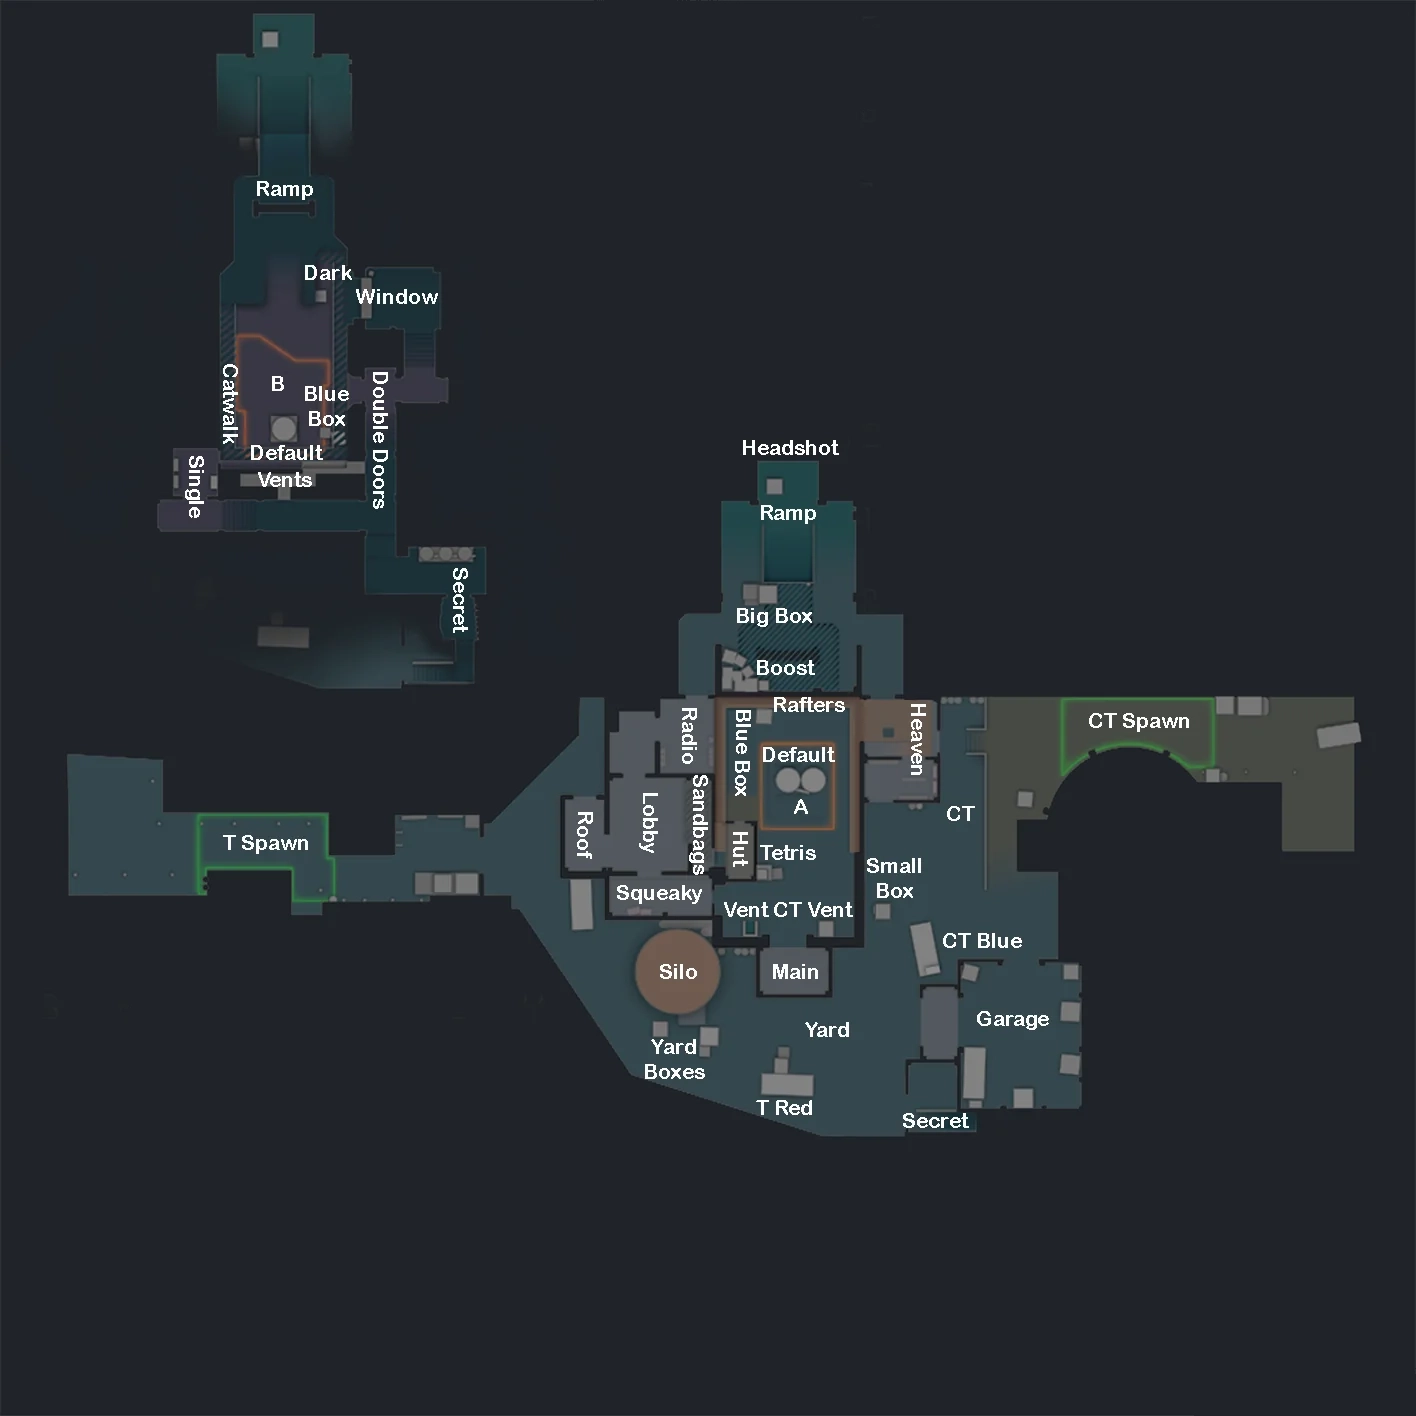
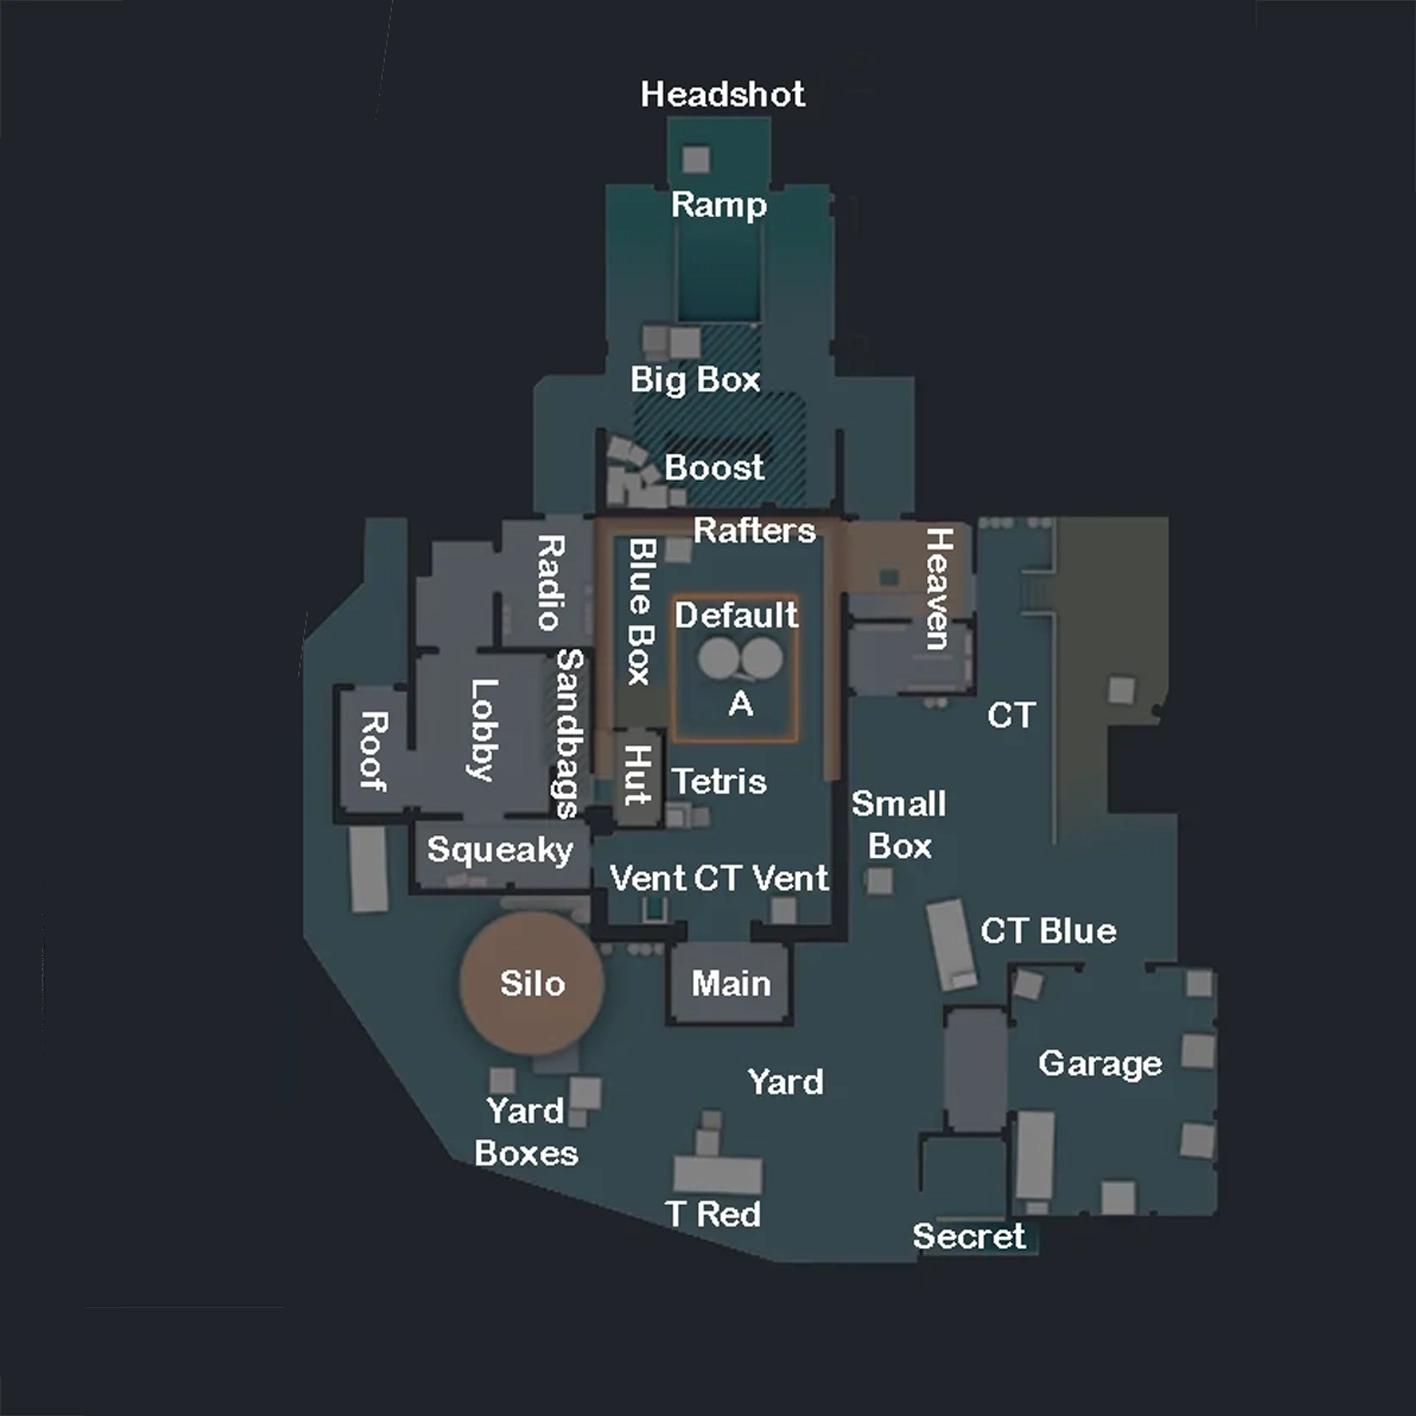
Nuke

diff --git a/src/views/Nuke.vue b/src/views/Nuke.vue
@@ -1,89 +1,158 @@
 <template>
-    <div class="absolute inset-0 bg-gradient-to-br from-neutral-900 from-5% to-neutral-950">
-      <div class="h-full w-full flex flex-col lg:flex-row items-center px-8">
-  
-        <div class="flex items-center justify-start h-full">
-          <ul class="min-w-40 font-mono font-bold rounded-xl bg-neutral-900 text-neutral-200 space-y-4 p-4">
-  
-            <router-link
-              to="/Mirage"
-              class="min-h-10 flex items-center justify-left gap-2 rounded-lg transition-colors duration-300 ease-out hover:bg-neutral-800"
-            >
-              <div class="pl-2">
-                <img src="@/assets/icons/Mirage.webp" alt="icon" class="w-6 h-6 inline-block mr-2" />
-              </div>
-              Mirage
-            </router-link>
-  
-            <router-link
-              to="/Dust2"
-              class="min-h-10 flex items-center justify-left gap-2 rounded-lg transition-colors duration-300 ease-out hover:bg-neutral-800"
-            >
-              <div class="pl-2">
-                <img src="@/assets/icons/Dust2.webp" alt="icon" class="w-6 h-6 inline-block mr-2" />
-              </div>
-              Dust 2
-            </router-link>
-  
-            <router-link
-              to="/Nuke"
-              class="min-h-10 flex items-center justify-left gap-2 rounded-lg transition-colors duration-300 ease-out bg-neutral-600"
-            >
-              <div class="pl-2">
-                <img src="@/assets/icons/Nuke.webp" alt="icon" class="w-6 h-6 inline-block mr-2" />
-              </div>
-              Nuke
-            </router-link>
-            
-            <router-link
-              to="/Inferno"
-              class="min-h-10 flex items-center justify-left gap-2 rounded-lg transition-colors duration-300 ease-out hover:bg-neutral-800"
-            >
-              <div class="pl-2">
-                <img src="@/assets/icons/Inferno.webp" alt="icon" class="w-6 h-6 inline-block mr-2" />
-              </div>
-              Inferno
-            </router-link>
-          </ul>
-        </div>
-  
-        <div class="flex justify-center items-center px-4 lg:px-20">
+  <div class="absolute inset-0 bg-gradient-to-br from-neutral-900 from-5% to-neutral-950">
+    <div class="h-full w-full flex flex-col lg:flex-row items-center gap-8">
+
+      <div class="hidden xl:flex items-center justify-start h-full">
+        <ul class="min-w-40 font-mono font-bold rounded-r-xl bg-neutral-900 text-neutral-200 space-y-4 p-4">
+          <router-link
+            to="/Mirage"
+            class="min-h-10 flex items-center justify-left gap-2 rounded-lg transition-colors duration-300 ease-out hover:bg-neutral-800"
+          >
+            <div class="pl-2">
+              <img src="@/assets/icons/Mirage.webp" alt="icon" class="w-6 h-6 inline-block mr-2" />
+            </div>
+            Mirage
+          </router-link>
+          <router-link
+            to="/Dust2"
+            class="min-h-10 flex items-center justify-left gap-2 rounded-lg transition-colors duration-300 ease-out hover:bg-neutral-800"
+          >
+            <div class="pl-2">
+              <img src="@/assets/icons/Dust2.webp" alt="icon" class="w-6 h-6 inline-block mr-2" />
+            </div>
+            Dust 2
+          </router-link>
+          <router-link
+            to="/Nuke"
+            class="min-h-10 flex items-center justify-left gap-2 rounded-lg transition-colors duration-300 ease-out bg-neutral-600"
+          >
+            <div class="pl-2">
+              <img src="@/assets/icons/Nuke.webp" alt="icon" class="w-6 h-6 inline-block mr-2" />
+            </div>
+            Nuke
+          </router-link>
+          <router-link
+            to="/Inferno"
+            class="min-h-10 flex items-center justify-left gap-2 rounded-lg transition-colors duration-300 ease-out hover:bg-neutral-800"
+          >
+            <div class="pl-2">
+              <img src="@/assets/icons/Inferno.webp" alt="icon" class="w-6 h-6 inline-block mr-2" />
+            </div>
+            Inferno
+          </router-link>
+        </ul>
+      </div>
+
+      <div class="flex-col lg:flex-row flex gap-15 md:gap-0 justify-center md:justify-left items-center">
+        <div class="relative max-w-[90%] md:max-w-[45%]">
           <img 
             src="@/assets/Maps/Nuke.webp" 
-            alt="Right Side Image" 
-            :class="['rounded-lg shadow-lg w-auto max-w-full sm:max-w-[75%] md:max-w-[70%] lg:max-w-[65%]']" 
+            alt="Map Image" 
+            :class="['rounded-lg shadow-lg border-2 border-blue-950']" 
           />
+
+          <div class="absolute top-[23.5%] left-[42.5%] w-[5%] h-[3%]">
+            <button @click="changeSmoke(2)">
+              <div class="relative w-full h-full rounded-full flex justify-center items-center transition-opacity opacity-50 hover:opacity-100">
+                <img src="@/assets/icons/Smoke.svg" class="w-full h-full object-contain rounded-full" />
+                <span class="absolute text-black font-bold text-[1vw]">2</span>
+              </div>
+            </button>
+          </div>
+
+          <div class="absolute top-[26.5%] left-[42.5%] w-[5%] h-[3%]">
+            <button @click="changeSmoke(1)">
+              <div class="relative w-full h-full rounded-full flex justify-center items-center transition-opacity opacity-50 hover:opacity-100">
+                <img src="@/assets/icons/Smoke.svg" class="w-full h-full object-contain rounded-full" />
+                <span class="absolute text-black font-bold text-[1vw]">1</span>
+              </div>
+            </button>
+          </div>
+
+          
+          <div class="absolute top-[80.5%] left-[53.5%] w-[5%] h-[3%]">
+            <button @click="changeSmoke(3)">
+              <div class="relative w-full h-full rounded-full flex justify-center items-center transition-opacity opacity-50 hover:opacity-100">
+                <img src="@/assets/icons/Smoke.svg" class="w-full h-full object-contain rounded-full" />
+                <span class="absolute text-black font-bold text-[1vw]">3</span>
+              </div>
+            </button>
+          </div>
+
+          <div class="absolute top-[80.5%] left-[58.5%] w-[5%] h-[3%]">
+            <button @click="changeSmoke(4)">
+              <div class="relative w-full h-full rounded-full flex justify-center items-center transition-opacity opacity-50 hover:opacity-100">
+                <img src="@/assets/icons/Smoke.svg" class="w-full h-full object-contain rounded-full" />
+                <span class="absolute text-black font-bold text-[1vw]">4</span>
+              </div>
+            </button>
+          </div>
+
+          <div class="absolute top-[72.5%] left-[63.5%] w-[5%] h-[3%]">
+            <button @click="changeSmoke(5)">
+              <div class="relative w-full h-full rounded-full flex justify-center items-center transition-opacity opacity-50 hover:opacity-100">
+                <img src="@/assets/icons/Smoke.svg" class="w-full h-full object-contain rounded-full" />
+                <span class="absolute text-black font-bold text-[1vw]">5</span>
+              </div>
+            </button>
+          </div>
+
+          <div class="absolute top-[63.5%] left-[60.5%] w-[5%] h-[3%]">
+            <button @click="changeSmoke(6)">
+              <div class="relative w-full h-full rounded-full flex justify-center items-center transition-opacity opacity-50 hover:opacity-100">
+                <img src="@/assets/icons/Smoke.svg" class="w-full h-full object-contain rounded-full" />
+                <span class="absolute text-black font-bold text-[1vw]">6</span>
+              </div>
+            </button>
+          </div>
+
+          <div class="absolute top-[58.5%] left-[45.5%] w-[5%] h-[3%]">
+            <button @click="changeSmoke(7)">
+              <div class="relative w-full h-full rounded-full flex justify-center items-center transition-opacity opacity-50 hover:opacity-100">
+                <img src="@/assets/icons/Smoke.svg" class="w-full h-full object-contain rounded-full" />
+                <span class="absolute text-black font-bold text-[1vw]">7</span>
+              </div>
+            </button>
+          </div>
 
         </div>
 
-  
+        <div class="relative max-w-[100%] md:max-w-[90%]">
+          <img 
+            :src="`/src/assets/Maps/Smokes/Nuke/${ActiveSmoke}.PNG`" 
+            alt="Smoke View" 
+            class="rounded-xl shadow-lg border-4 border-yellow-900" 
+          />
+        </div>
       </div>
     </div>
-  </template>
-  
-  <script>
-  export default {
-    data() {
-      return {
-        ImageClass: 'opacity-0'
-      };
-    },
-    mounted() {
-      setTimeout(() => {
-        this.ImageClass = 'opacity-100';
-      }, 100);
-    },
-  };
-  </script>
-  
-<style scoped>
-  a {
-      color: inherit;
-      text-decoration: inherit;
-      font: inherit;
-  }
+  </div>
+</template>
 
-  button {
-    all: unset; /* Resets padding, margins, borders */
-  }
+<script>
+export default {
+  data() {
+    return {
+      ActiveSmoke: 1,
+      AutoSmoke: 1,
+    };
+  },
+  methods: {
+    changeSmoke(smokeNumber) {
+      this.ActiveSmoke = smokeNumber;
+    }
+  },
+};
+</script>
+
+<style scoped>
+a {
+  color: inherit;
+  text-decoration: inherit;
+  font: inherit;
+}
+
+button {
+  all: unset;
+}
 </style>
